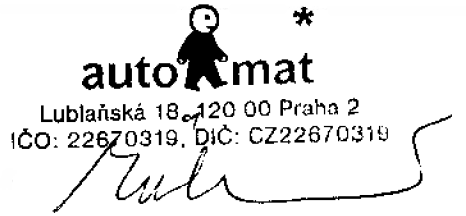
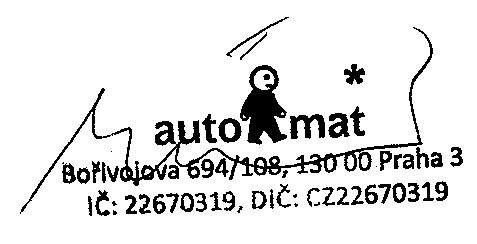
invoice form actualization

diff --git a/apps/dpnk/invoice_pdf.py b/apps/dpnk/invoice_pdf.py
@@ -40,7 +40,7 @@ def make_invoice_sheet_pdf(outfile, invoice):
 
     provider = Provider(
         "Auto*Mat, z.s.",
-        email="auto-mat@auto-mat.cz",
+        email="kontakt@dopracenakole.cz",
         address="Bořivojova 694/108",
         zip="130 00",
         city="Praha 3",
@@ -50,10 +50,9 @@ def make_invoice_sheet_pdf(outfile, invoice):
         ir="22670319",
         phone="212 240 666",
         logo_filename=os.path.join(DIR, "static/img/logo.jpg"),
-        note="""Sdružení Auto*Mat bylo zaregistrováno u MV ČR pod č. VS/1-1/68 776/07-R.
-U Městského soudu v Praze jsme vedeni pod spisovou značkou L 18119.
-Společně s vámi tvoříme město, ve kterém chceme žít. www.auto-mat.cz
-""",
+        note="Spolek je veden u Městského soudu v Praze pod spisovou značkou L 18119.\n"
+             "Auto*mat - společně s vámi tvoříme město, ve kterém chceme žít.\n"
+             "                                       http://www.auto-mat.cz"
     )
 
     creator = Creator(
